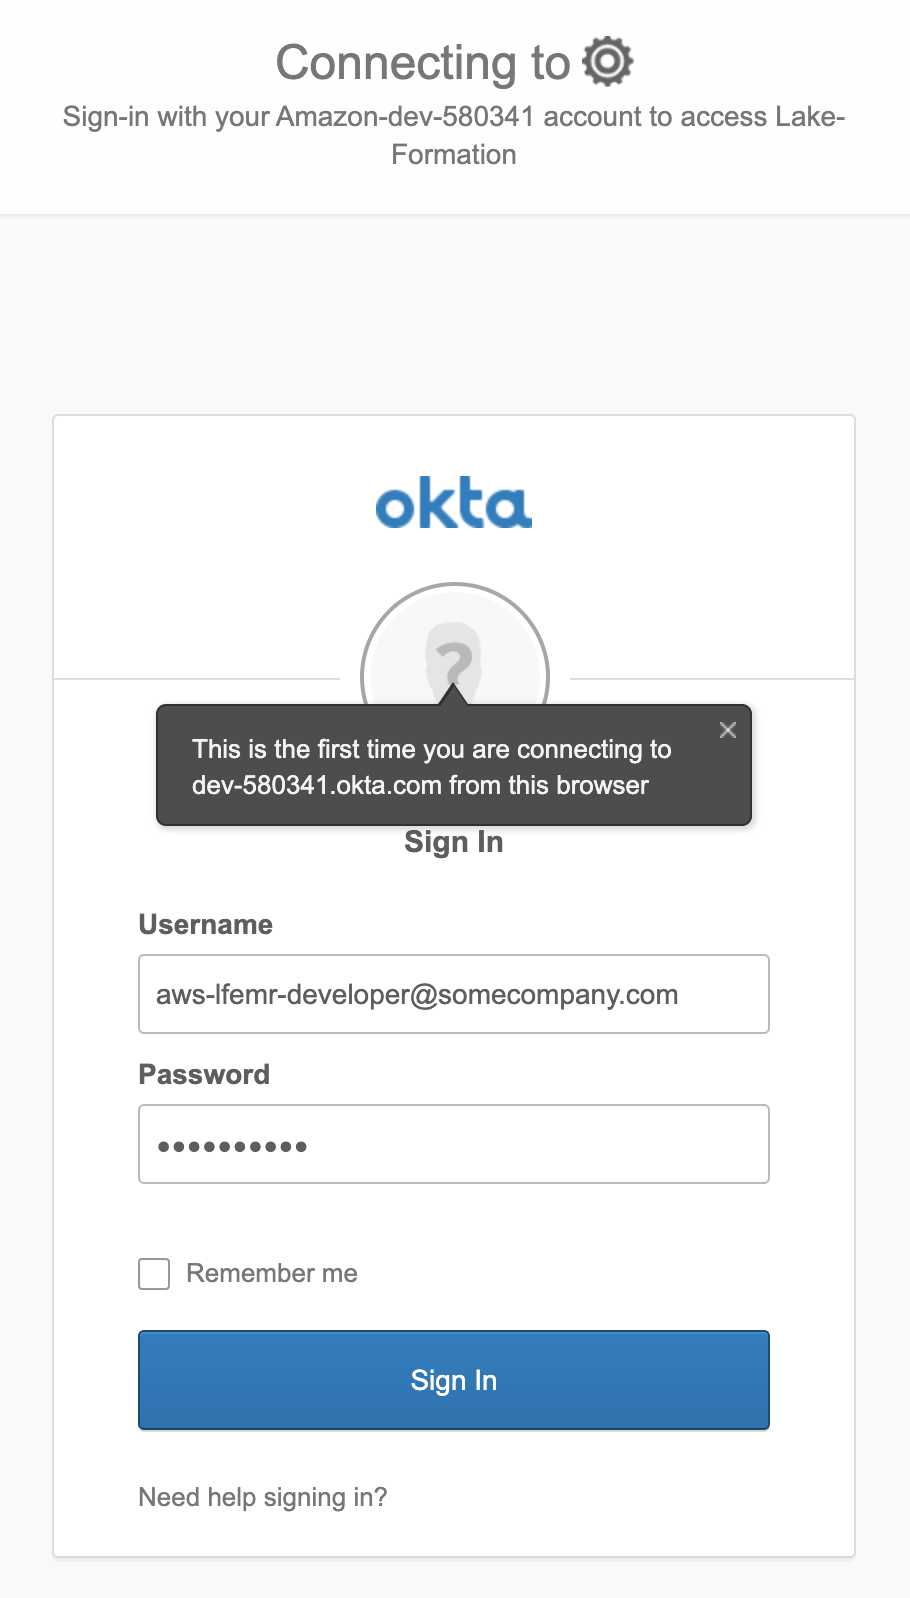
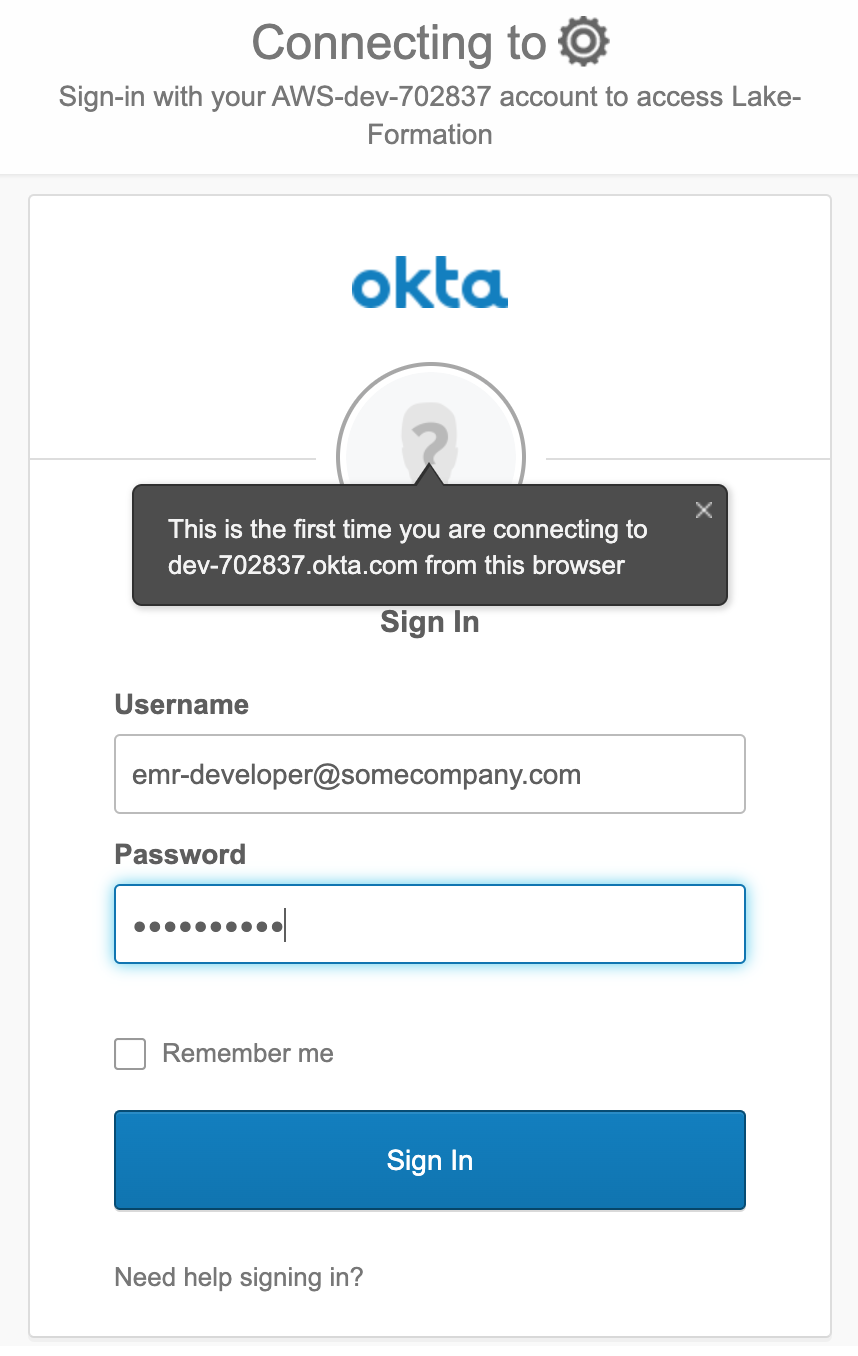
Updated CFN, screenshots and updated content related to Okta

diff --git a/website/content/60-advanced/601-emr-integration/6014-verify-access/60142-emr-notebook.md b/website/content/60-advanced/601-emr-integration/6014-verify-access/60142-emr-notebook.md
@@ -1,11 +1,11 @@
 +++
-title = "EMR Notebook"
+title = "EMR Notebooks"
 chapter = true
 weight = 60142
 autoNav = true
 +++
 
-<center><h3>Amazon EMR Notebook</h3></center>
+<center><h3>EMR Notebooks</h3></center>
 
 <div style="text-align: justify">
     Follow these steps to create Amazon EMR Notebook and execute queries through notebook to explore different access patterns:
@@ -18,18 +18,18 @@ autoNav = true
             <b>Note:</b> Please Turn off your VPN, sometimes high levels ports are blocked by VPN.</li>
         <li>Clear the browser cache/cookies as your previous login into IdP account is still in the session <b>OR</b> open in Incognito mode if you are using Google Chrome.</li>
       <li>To create an EMR notebook, open the Amazon EMR console. Choose Notebooks and click on <b>Create notebook</b> button.<img src="/images/1create-emr-notebook.png" title="Create Notebook" style="margin:15px 0px; border:1px solid black"/></li>
-      <li>Enter a Notebook name <b>LF-Notebook</b> and an optional description. Select the AmazoN S3 notebook path under <b>Notebook location</b> section.<img src="/images/3create-notebook.png" title="Notebook Name" style="margin:15px 0px; border:1px solid black"/></li>
+      <li>Enter a Notebook name <b>LF-Notebook</b> and an optional description. Select the Amazon S3 notebook path under <b>Notebook location</b> section.<img src="/images/3create-notebook.png" title="Notebook Name" style="margin:15px 0px; border:1px solid black"/></li>
         <li>Select <b>Choose an existing cluster</b> and click on <b>Choose</b> button. Select the EMR cluster <b>LF-EMRCluster</b>, which is created by the CloudFormation template.<img src="/images/2choose-emr-cluster.png" title="Choose the Cluster" style="margin:15px 0px; border:1px solid black"/></li>
         <li>Review all the information and finish up the creation process by clicking on the <b>Create notebook</b> button. Notebook will get created and wait for the <b>Ready</b> state.<img src="/images/4notebook-in-readystatus.png" style="margin:15px 0px; border:1px solid black"/></li>
         <li>Clear the browser cache/cookies as your previous login into IdP account is still in the session <b>OR</b> open in Incognito mode if you are using Google Chrome.</li>
         <li>Once notebook is in ready state, click on either <b>Open In Jupyter</b> or <b>Open in JupyterLab</b> button.<img src="/images/notebookjup1.png" style="margin:15px 0px; border:1px solid black"/></li>
-        <li>You will be redirected to the Proxy Agent on the Amazon EMR cluster. Once the Proxy Agent’s certificate is accepted, your browser redirects you to your Identity Provider (IdP) login page to authenticate. Once authenticated with user <b>emr-developer@somecompany.com</b> and password you provided, you will be redirected to Jupyter notebook.</li>
-        <li>In the case of Okta, you have to choose the forgot password question for the first time. Sometimes Auth0/Okta IPs may be blocked by your VPN, so make sure to turn off VPN.</li>
+        <li>You will be redirected to the Proxy Agent on the Amazon EMR cluster. Once the Proxy Agent’s certificate is accepted, your browser redirects you to your Identity Provider (IdP) login page to authenticate.
         <div class="row">
             <div class="column"><img src="/images/auth0-authenticate.png" style="margin:15px 0px; border:1px solid black"/></div>
             <div class="column"><img src="/images/okta-login.png" style="margin:15px 0px; border:1px solid black"/></div>
         </div>
-       <li>A notebook for this exercise is already loaded to your Jupyter. Click on the notebook named -  <b>LF-Notebook</b>.<img src="/images/notebookjup2.png" style="margin:15px 0px; border:1px solid black"/> </li>
+        <b>Note:</b> In the case of Okta, you have to choose the forgot password question for the first time. Sometimes Auth0/Okta IPs may be blocked by your VPN, so make sure to turn off VPN.</li>
+       <li>Once authenticated with user <b>emr-developer@somecompany.com</b> and password you provided, you will be redirected to Jupyter notebook. A notebook for this exercise is already loaded to your Jupyter. Click on the notebook named -  <b>LF-Notebook</b>.<img src="/images/notebookjup2.png" style="margin:15px 0px; border:1px solid black"/> </li>
         <li>You can execute the queries one by one to see different AWS Lake Formation granular-level access patterns.<img src="/images/lf-emr-jupyterlab.png" title="Import Jupyter Notebook" style="margin:15px 0px; border:1px solid black"/></li>
         <li>One query at the end of the notebook is expected to fail due to limited data permission. Now, go back to the AWS Lake Formation Console (on a different browser's tab) and grant <b>SELECT</b> permission to the Auth0 user on the <b>tpc.dl_tpc_item</b> table. Go back to your notebook and re-execute the query which failed with <b>AccessDeniedException</b> error and validate the user's access.</li>
     </ol>

diff --git a/website/content/60-advanced/601-emr-integration/6014-verify-access/60141-zeppelin.md b/website/content/60-advanced/601-emr-integration/6014-verify-access/60141-zeppelin.md
@@ -18,12 +18,14 @@ autoNav = true
          <b>Note:</b> Please Turn off your VPN, sometimes high levels ports are blocked by VPN.</li>
       <li>Clear the browser cache/cookies as your previous login into IdP account is still in the session <b>OR</b> open in Incognito mode if you are using Google Chrome.</li>
       <li>To access Apache Zeppelin, copy the <b>EMRMasterNodeDNS</b> value from CloudFormation stack output. Using your browser, navigate to the following URL. Ensure the URL includes the trailing slash at the end and updated EMRMasterNodeDNS address.<pre>https://<b>EMRMasterNodeDNS</b>:8442/gateway/default/zeppelin/</pre></li>
-      <li>Once the Proxy Agent’s certificate is accepted, your browser redirects you to your Identity Provider (IdP) login page to authenticate. Once authenticated with user <b>emr-developer@somecompany.com</b> and password you provided, you will be redirected to Zeppelin.<img src="/images/zeppelinnotebook.png" style="margin:15px 0px; border:1px solid black"/></li>
-      <li>In the case of <b>Okta</b>, you have to choose the forgot password question for the first time.</li>
-      <div class="row">
-         <div class="column"><img src="/images/auth0-authenticate.png" style="margin:15px 0px; border:1px solid black"/></div>
-         <div class="column"><img src="/images/okta-login.png" style="margin:15px 0px; border:1px solid black"/></div>
-      </div>
+      <li>Once the Proxy Agent’s certificate is accepted, your browser redirects you to your Identity Provider (IdP) login page to authenticate.
+         <div class="row">
+            <div class="column"><img src="/images/auth0-authenticate.png" style="margin:15px 0px; border:1px solid black"/></div>
+            <div class="column"><img src="/images/okta-login.png" style="margin:15px 0px; border:1px solid black"/></div>
+         </div>
+         <b>Note:</b> In the case of <b>Okta</b>, you have to choose the forgot password question for the first time. It may ask you to provide a <i>forgot password question</i>.
+      </li>
+      <li>Once authenticated with user <b>emr-developer@somecompany.com</b> and password you provided, you will be redirected to Zeppelin.<img src="/images/zeppelinnotebook.png" style="margin:15px 0px; border:1px solid black"/></li>
       <li>A notebook for this exercise is already loaded to your Zeppelin. Click on the notebook named -  <b>LakeFormation-EMR-Notebook</b>. Now, from the notebook, you can execute the queries one by one to see different AWS Lake Formation granular-level access patterns.<img src="/images/zeppelin-notebook-sel.png" style="margin:15px 0px; border:1px solid black"/><img src="/images/zeppelinnotebook2.png" style="margin:15px 0px; border:1px solid black"/></li>
       <li>One query at the end of the notebook is expected to fail due to limited data permission. Now, go back to the AWS Lake Formation Console (on a different browser's tab) and grant <b>SELECT</b> permission to the Auth0 user on the <b>tpc.dl_tpc_item</b> table. Go back to your notebook and re-execute the query which failed with <b>AccessDeniedException</b> error and validate the user's access.</li>
     </ol>

diff --git a/website/content/60-advanced/601-emr-integration/6011-trust/60111-okta/601111-saml2.md b/website/content/60-advanced/601-emr-integration/6011-trust/60111-okta/601111-saml2.md
@@ -9,7 +9,7 @@ autoNav = true
 
 <div style="text-align: justify">
    <ol>
-       <li>Login into Okta account using assigned domain name of your account. You can find your Okta domain name from the activation email (for my case, it was: https://dev-580341.okta.com/login/login.htm). you may have to click on <b>Admin</b> button depending on how Okta authenticates.<img src="/images/okta-clickadmin.png" style="margin:15px 0px; border:1px solid black"/> </li>
+       <li>Login into Okta account using assigned the domain name of your account. You can find your Okta domain name from the activation email (for my case, it was: https://dev-580341.okta.com/login/login.htm). you may have to click on the <b>Admin</b> button depending on how Okta authenticates.<img src="/images/okta-clickadmin.png" style="margin:15px 0px; border:1px solid black"/> </li>
        <li>If you are using the <b>Developer Console</b>, you need to first switch to the <b>Classic UI</b> console. If you see Developer Console on the top left of the page, click on it and select Classic UI to switch.<img src="/images/okta-switchclassic.png" style="margin:15px 0px; border:1px solid black"/> </li>
        <li>Select <b>People</b> from the <b>Directory</b> menu, and then click on <b>Add Person</b> button.<img src="/images/okta-addpeople.png" style="margin:15px 0px; border:1px solid black"/> </li>
        <li>Fill up the form based on the below picture. Enter <b>emr-developer@somecompany.com</b> for the username field. Go to the <b>Password</b> option and select <b>Set by admin</b> from the drop-down and enter <b>Password1!</b> as a password. Uncheck the option <b>User must change password on first login</b> and click on <b>Save</b> button. We will use to authenticate and authorize AWS Lake Formation tables and columns for fine-grain access.<img src="/images/okta-addpersondetails.png" style="margin:15px 0px; border:1px solid black"/> </li>

diff --git a/website/content/90-cleanups/_index.md b/website/content/90-cleanups/_index.md
@@ -6,11 +6,6 @@ chapter = true
 <center><h2>Cleaning Up</h2></center>
 
 <div style="text-align: justify">
-You have to delete the content in the S3 buckets created part of this exercise before deleting the CloudFormation Stacks. Use the AWS CloudFormation console or AWS CLI to delete the stack named <b>Lake-Formation-WF</b> and <b>Lake-Formation-With-EMR-WF</b>.
-
-<br/>More details on how to <a href="https://docs.aws.amazon.com/AmazonS3/latest/user-guide/delete-bucket.html">Delete the S3 bucket </a>
-
-<img src="/images/cleans3buckets.png" title="Delete S3 buckets" style="margin:15px 0px; border:1px solid black"/> 
-
-
+    Please make sure you empty all the Amazon S3 buckets that got created as part of this exercise. Once you empty those buckets, proceed to AWS console or AWS CLI to delete the stack named <b>Lake-Formation-Workshop</b> and <b>Lake-Formation-With-EMR-Workshop</b> (if you completed Advanced labs).
+    <br/><br/>Click here to know more about how to <a href="https://docs.aws.amazon.com/AmazonS3/latest/user-guide/delete-bucket.html">delete the Amazon S3 bucket</a>.
 </div>

diff --git a/website/content/60-advanced/601-emr-integration/6013-before-you-access-data/60132-update-callback.md b/website/content/60-advanced/601-emr-integration/6013-before-you-access-data/60132-update-callback.md
@@ -17,7 +17,7 @@ autoNav = true
     </ol>
   <h4>For Okta</h4>
   <ol>
-    <li>Login into Okta account and Select Lake-Formation Application and under General tab Edit SAML Setting and replace Single sign-on URL's <b>public-dns</b> with EMR Master Node DNS.<img src="/images/okta-editsaml.png" title="Update Auth0 Callback URL" style="margin:15px 0px; border:1px solid black"/></li>
-    <li>Scroll down to the bottom of the page and click on Next and click Finish on the Feedback tab.</li>
+    <li>Login into Okta account and select Lake-Formation application. Then go to General tab -> SAML Settings -> Configure SAML section. Edit the Single sign-on URL field by replacing <b>public-dns</b> with the Amazon EMR master node DNS.<img src="/images/okta-editsaml.png" title="Update Auth0 Callback URL" style="margin:15px 0px; border:1px solid black"/></li>
+    <li>Scroll down to the bottom of the page and click on <b>Next</b> and then click on <b>Finish</b> on the Feedback tab.</li>
   </ol>
 </div>

diff --git a/website/content/30-howtostart/301-self-paced/3013-cloudformation.md b/website/content/30-howtostart/301-self-paced/3013-cloudformation.md
@@ -10,7 +10,7 @@ chapter = true
     Before starting this AWS Lake Formation workshop, you need to create the required AWS resources. To do this, we
     provide AWS CloudFormation template to create a stack that contains the resources. When you create the stack, AWS
     creates a number of resources in your account. The outcome of these steps is to create the sample TPC database
-    running on Amazon RDS, sample users to test different security patterns, Glue connections and other IAM resources. <br />
+    running on Amazon RDS, sample users to test different security patterns, Glue connections and other IAM resources. <br/>
 
     All of these resources are required for this workshop to build a secured data lake on AWS.<br/><br/>
     To launch the CloudFormation stack, click on Launch Stack. <br /> <br />

diff --git a/website/content/60-advanced/601-emr-integration/6014-verify-access/_index.md b/website/content/60-advanced/601-emr-integration/6014-verify-access/_index.md
@@ -11,7 +11,7 @@ autoNav = true
     As of now, the integration between Amazon EMR and AWS Lake Formation supports running Apace Spark through the following applications:
     <ul>
         <li>Apache Zeppelin</li>
-        <li>Amazon EMR notebooks</li>
+        <li>Amazon EMR Notebooks</li>
     </ul>
     In this chapter, you will walk-through these applications to demonstrate different data access scenarios.
     {{% children showhidden="false" %}}
